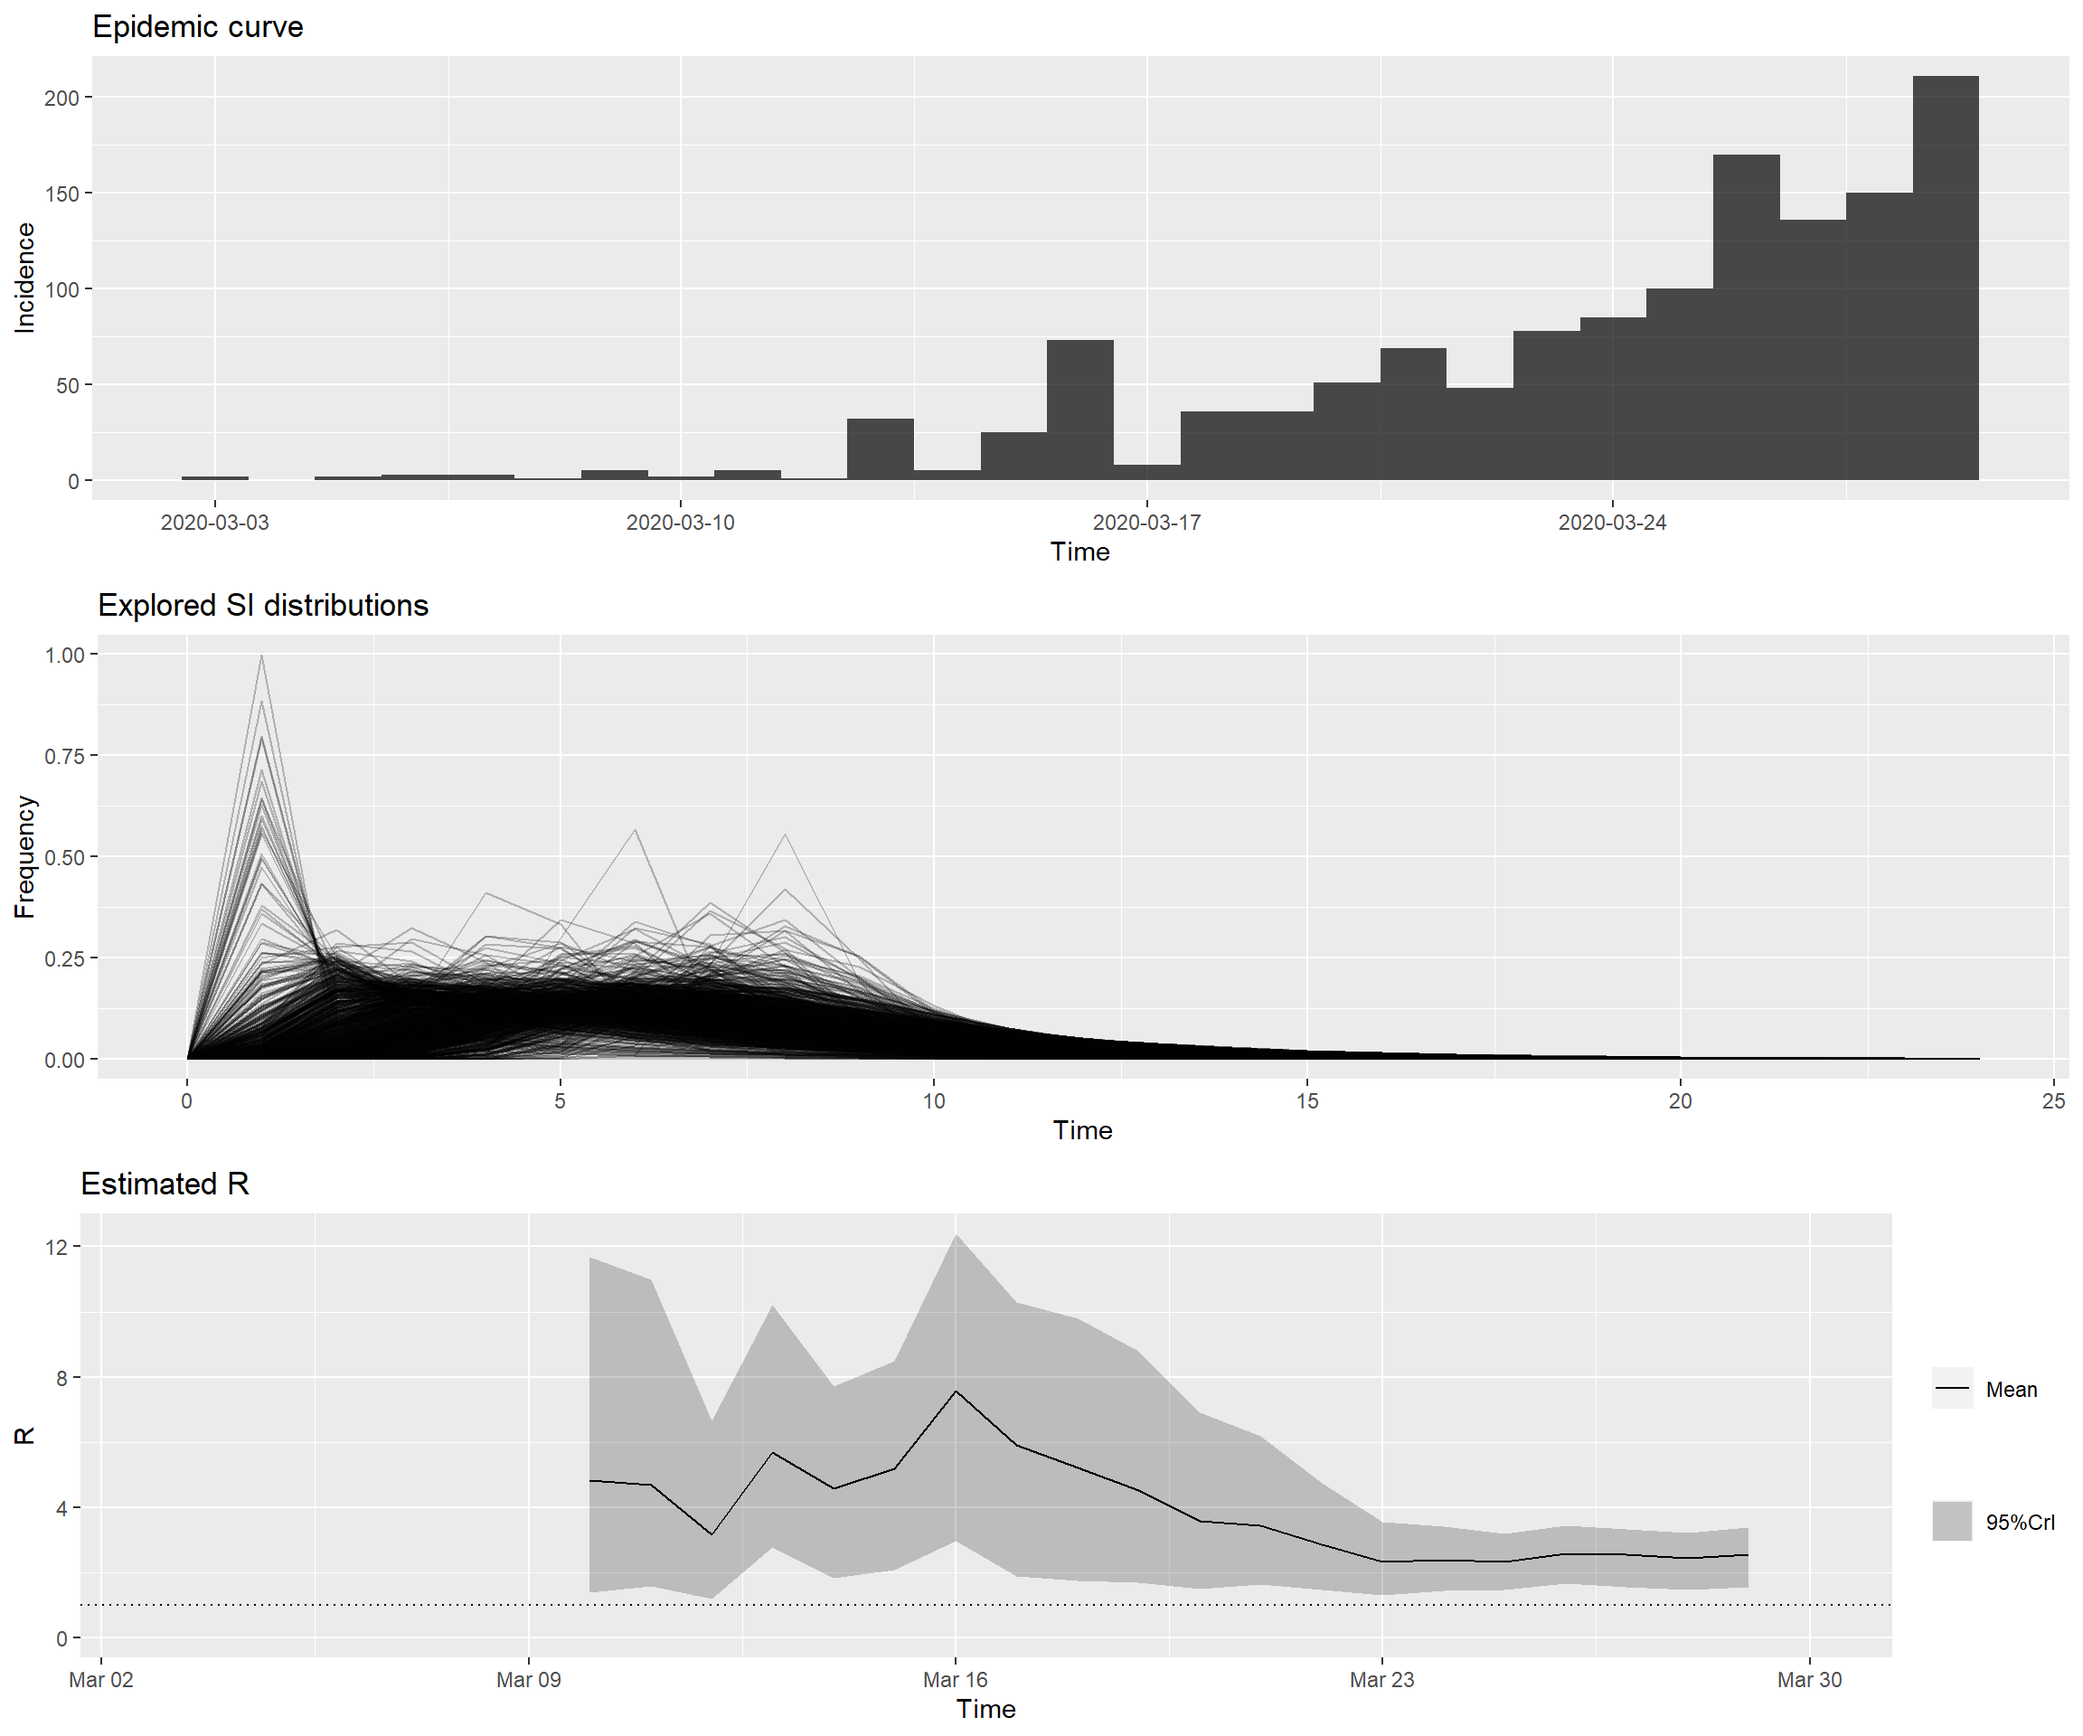
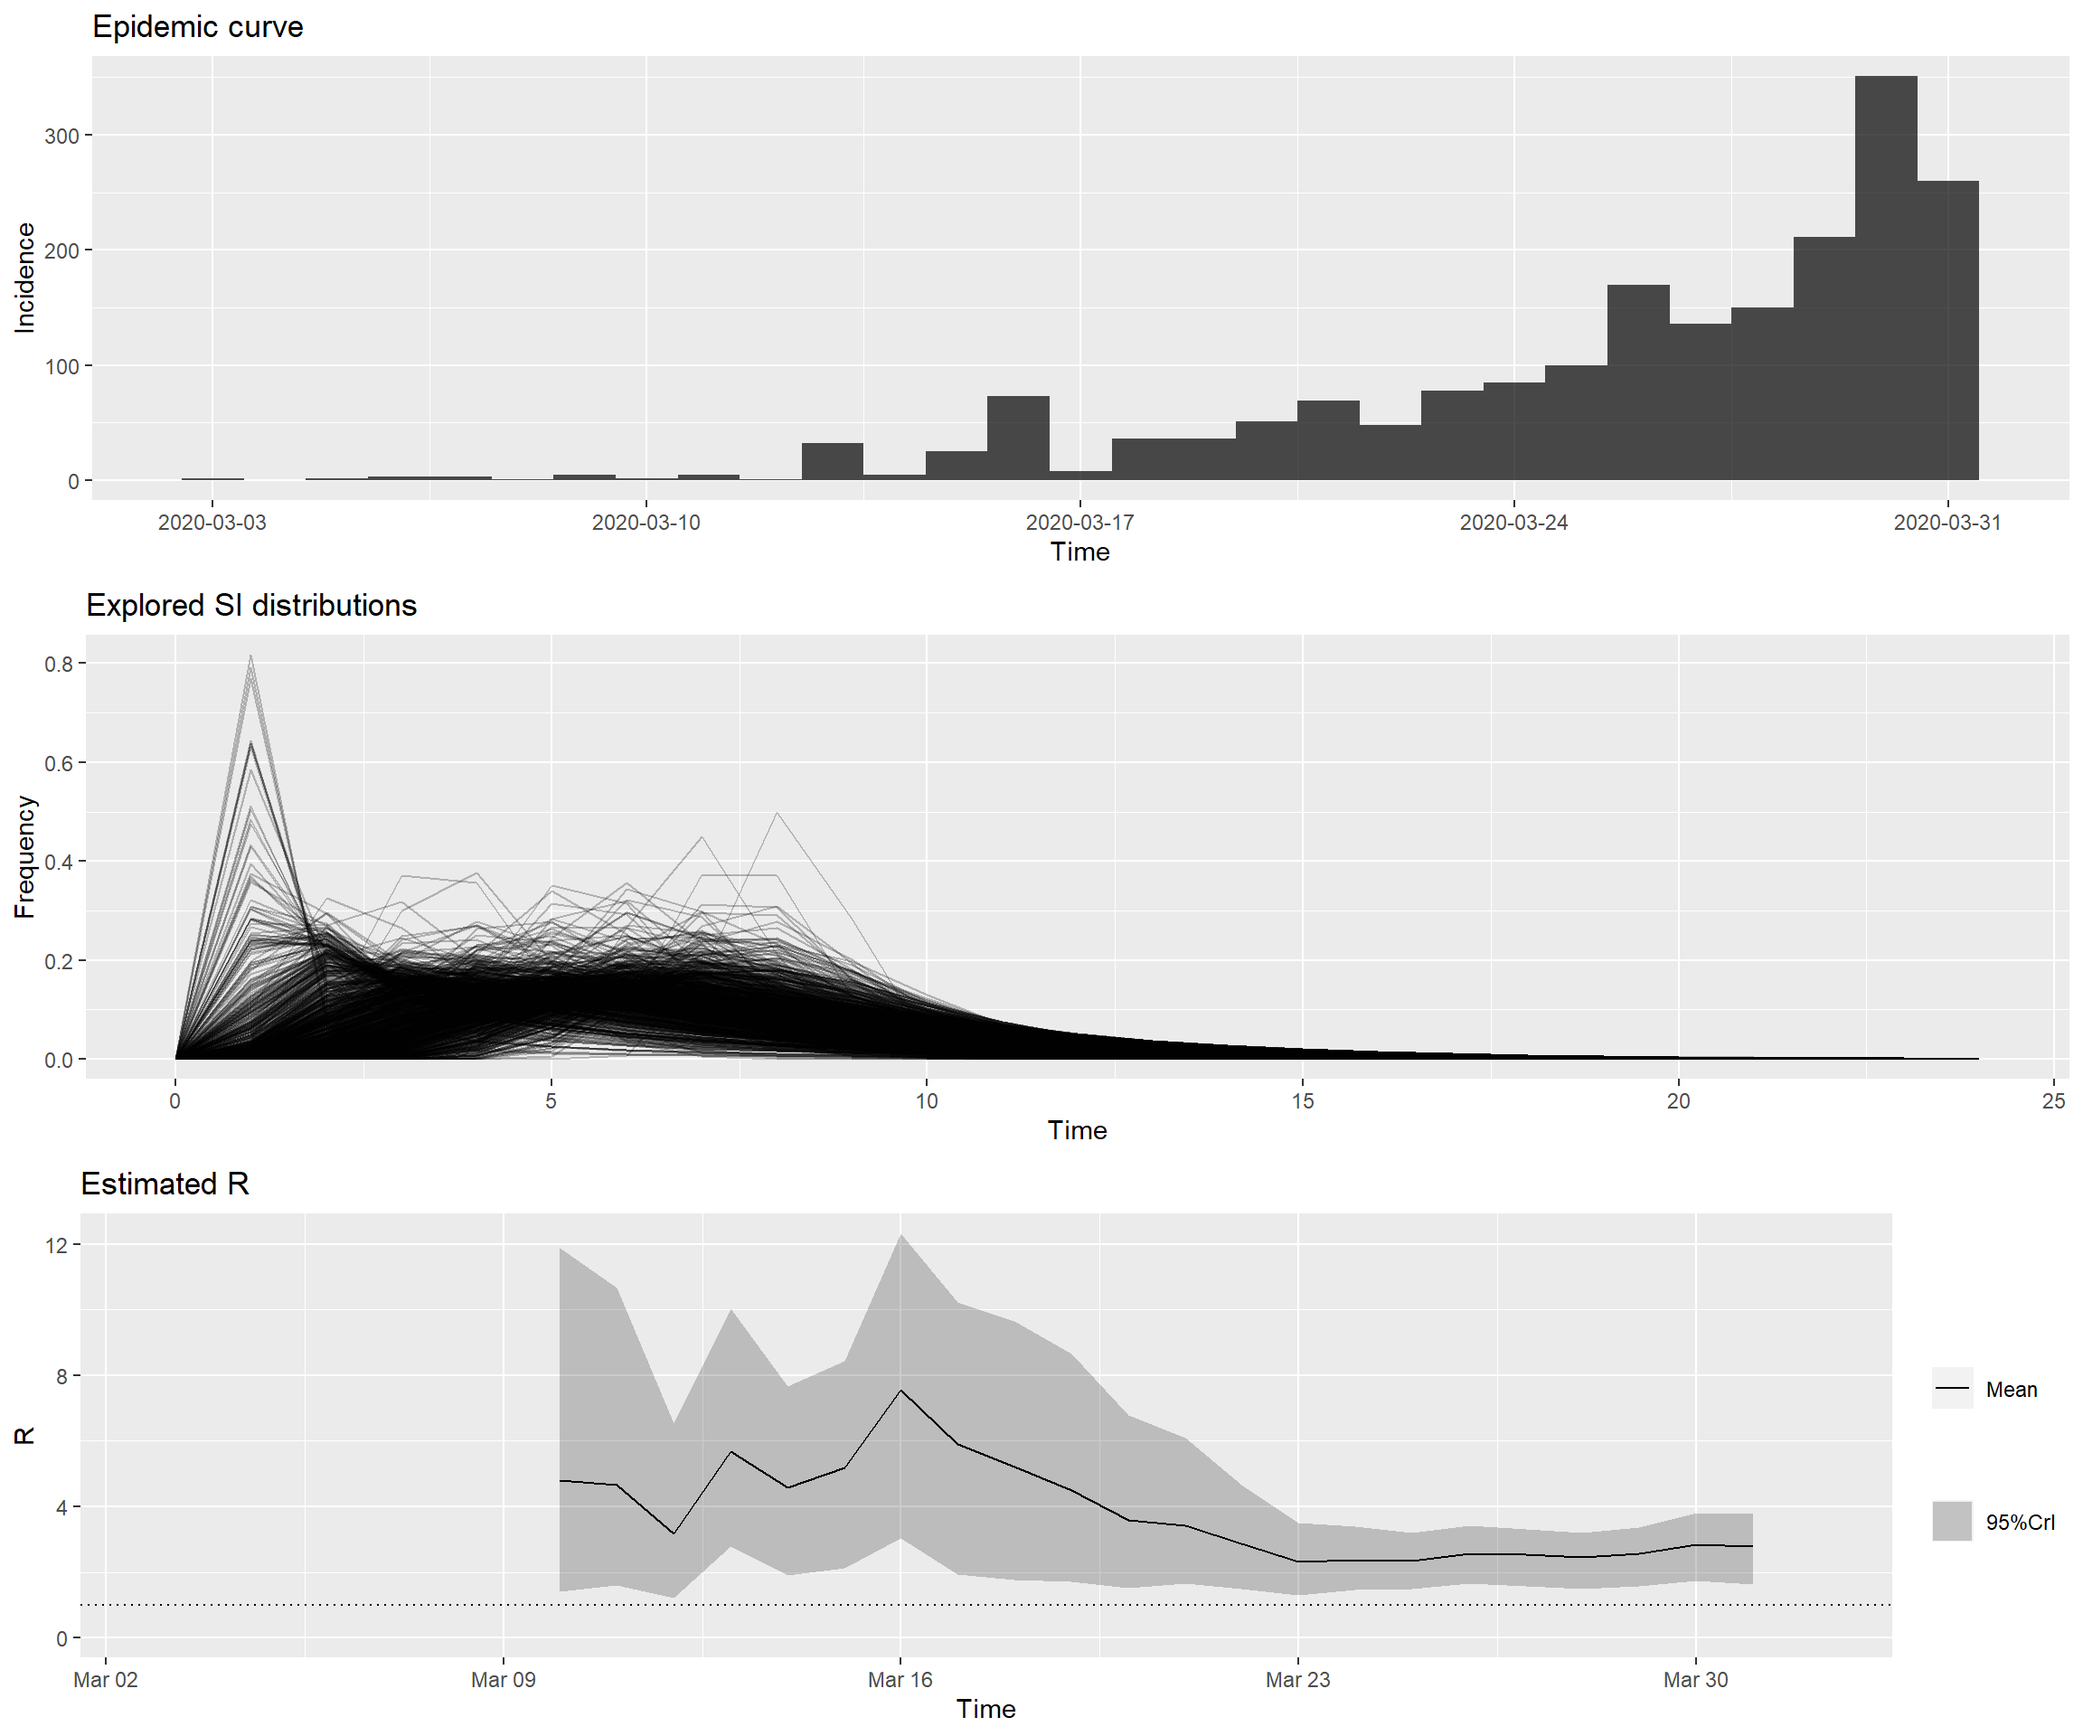
update

diff --git a/blog/can/project.html b/blog/can/project.html
@@ -26,8 +26,8 @@
   <link rel="license" href="https://creativecommons.org/licenses/by-sa/4.0/"/>
   
   <!--  https://schema.org/Article -->
-  <meta property="article:published" itemprop="datePublished" content="2020-03-30"/>
-  <meta property="article:created" itemprop="dateCreated" content="2020-03-30"/>
+  <meta property="article:published" itemprop="datePublished" content="2020-04-01"/>
+  <meta property="article:created" itemprop="dateCreated" content="2020-04-01"/>
   <meta name="article:author" content="Juan Pablo Díaz Martínez"/>
   
   <!--  https://developers.facebook.com/docs/sharing/webmasters#markup -->
@@ -45,7 +45,7 @@
   <!--radix_placeholder_rmarkdown_metadata-->
   
   <script type="text/json" id="radix-rmarkdown-metadata">
-  {"type":"list","attributes":{"names":{"type":"character","attributes":{},"value":["title","description","author","date","creative_commons","output"]}},"value":[{"type":"character","attributes":{},"value":["Projections of daily incidence based on past incidence for COVID-19 "]},{"type":"character","attributes":{},"value":["A simple but powerful tool for projecting new cases"]},{"type":"list","attributes":{},"value":[{"type":"list","attributes":{"names":{"type":"character","attributes":{},"value":["affiliation","affiliation_url","name"]}},"value":[{"type":"character","attributes":{},"value":["UHN, Toronto, ON, Canada"]},{"type":"character","attributes":{},"value":["https://thebru.ca/Juan_Pablo_Diaz_Martinez"]},{"type":"character","attributes":{},"value":["Juan Pablo Díaz Martínez"]}]}]},{"type":"character","attributes":{},"value":["Mar 30, 2020"]},{"type":"character","attributes":{},"value":["CC BY-SA"]},{"type":"list","attributes":{"names":{"type":"character","attributes":{},"value":["distill::distill_article"]}},"value":[{"type":"list","attributes":{"names":{"type":"character","attributes":{},"value":["self_contained","toc","toc_depth"]}},"value":[{"type":"logical","attributes":{},"value":[false]},{"type":"logical","attributes":{},"value":[true]},{"type":"integer","attributes":{},"value":[2]}]}]}]}
+  {"type":"list","attributes":{"names":{"type":"character","attributes":{},"value":["title","description","author","date","creative_commons","output"]}},"value":[{"type":"character","attributes":{},"value":["Projections of daily incidence based on past incidence for COVID-19 "]},{"type":"character","attributes":{},"value":["A simple but powerful tool for projecting new cases"]},{"type":"list","attributes":{},"value":[{"type":"list","attributes":{"names":{"type":"character","attributes":{},"value":["affiliation","affiliation_url","name"]}},"value":[{"type":"character","attributes":{},"value":["UHN, Toronto, ON, Canada"]},{"type":"character","attributes":{},"value":["https://thebru.ca/Juan_Pablo_Diaz_Martinez"]},{"type":"character","attributes":{},"value":["Juan Pablo Díaz Martínez"]}]}]},{"type":"character","attributes":{},"value":["April 1, 2020"]},{"type":"character","attributes":{},"value":["CC BY-SA"]},{"type":"list","attributes":{"names":{"type":"character","attributes":{},"value":["distill::distill_article"]}},"value":[{"type":"list","attributes":{"names":{"type":"character","attributes":{},"value":["self_contained","toc","toc_depth"]}},"value":[{"type":"logical","attributes":{},"value":[false]},{"type":"logical","attributes":{},"value":[true]},{"type":"integer","attributes":{},"value":[2]}]}]}]}
   </script>
   <!--/radix_placeholder_rmarkdown_metadata-->
   
@@ -943,7 +943,7 @@
 <!--radix_placeholder_front_matter-->
 
 <script id="distill-front-matter" type="text/json">
-{"title":"Projections of daily incidence based on past incidence for COVID-19 ","description":"A simple but powerful tool for projecting new cases","authors":[{"author":"Juan Pablo Díaz Martínez","authorURL":"#","affiliation":"UHN, Toronto, ON, Canada","affiliationURL":"https://thebru.ca/Juan_Pablo_Diaz_Martinez"}],"publishedDate":"2020-03-30T00:00:00.000-04:00","citationText":"Martínez, 2020"}
+{"title":"Projections of daily incidence based on past incidence for COVID-19 ","description":"A simple but powerful tool for projecting new cases","authors":[{"author":"Juan Pablo Díaz Martínez","authorURL":"#","affiliation":"UHN, Toronto, ON, Canada","affiliationURL":"https://thebru.ca/Juan_Pablo_Diaz_Martinez"}],"publishedDate":"2020-04-01T00:00:00.000-04:00","citationText":"Martínez, 2020"}
 </script>
 
 <!--/radix_placeholder_front_matter-->
@@ -960,7 +960,7 @@
 <div class="d-byline">
   Juan Pablo Díaz Martínez  (UHN, Toronto, ON, Canada)<a href="https://thebru.ca/Juan_Pablo_Diaz_Martinez" class="uri">https://thebru.ca/Juan_Pablo_Diaz_Martinez</a>
   
-<br/>Mar 30, 2020
+<br/>April 1, 2020
 </div>
 
 <div class="d-article">
@@ -980,7 +980,7 @@
 <hr class="d-toc-separator"/>
 <h1 id="modelling-the-covid-19-epidemic">Modelling the COVID-19 epidemic</h1>
 <h2 id="data">Data</h2>
-<p>In order to make this analysis to be reproducible and avoid manual abstracting, this tool will use <a href="https://github.com/CSSEGISandData/COVID-19">collated COVID-19 data</a>, maintained by Johns Hopkins University Center for Systems Science and Engineering (JHU CCSE) and used as the source for <a href="https://www.arcgis.com/apps/opsdashboard/index.html#/bda7594740fd40299423467b48e9ecf6">the dashboard</a> which they provide. For the purpose of this report, our analysis is based only on observed data up to 29 March 2020.</p>
+<p>In order to make this analysis to be reproducible and avoid manual abstracting, this tool will use <a href="https://github.com/CSSEGISandData/COVID-19">collated COVID-19 data</a>, maintained by Johns Hopkins University Center for Systems Science and Engineering (JHU CCSE) and used as the source for <a href="https://www.arcgis.com/apps/opsdashboard/index.html#/bda7594740fd40299423467b48e9ecf6">the dashboard</a> which they provide. For the purpose of this report, our analysis is based only on observed data up to 31 March 2020.</p>
 <h1 id="projections">Projections</h1>
 <h2 id="general-idea">General idea</h2>
 <p>Our projections will rely on a well-established and simple method that assumed the daily incidence, <span class="math inline">\(I_t\)</span>, could be approximated with a Poisson process following the renewal equation (Fraser, 2007):</p>
